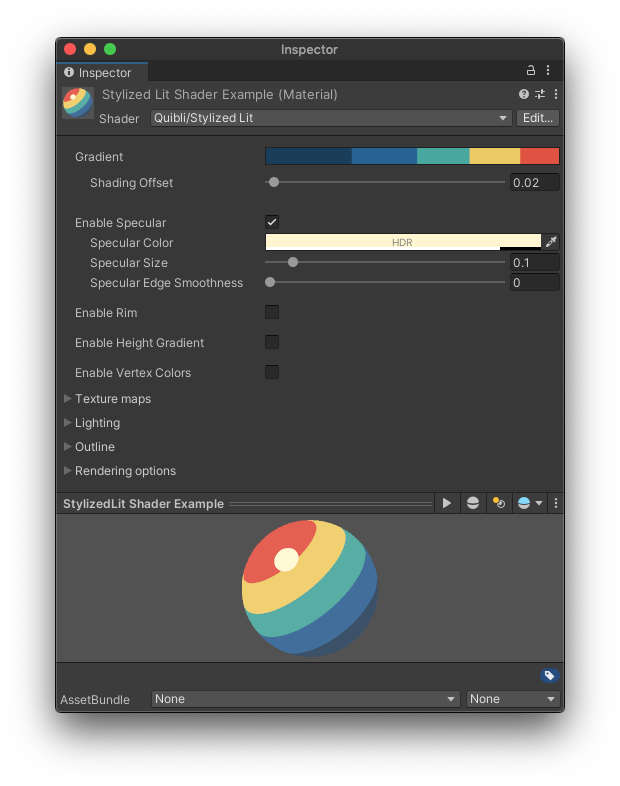
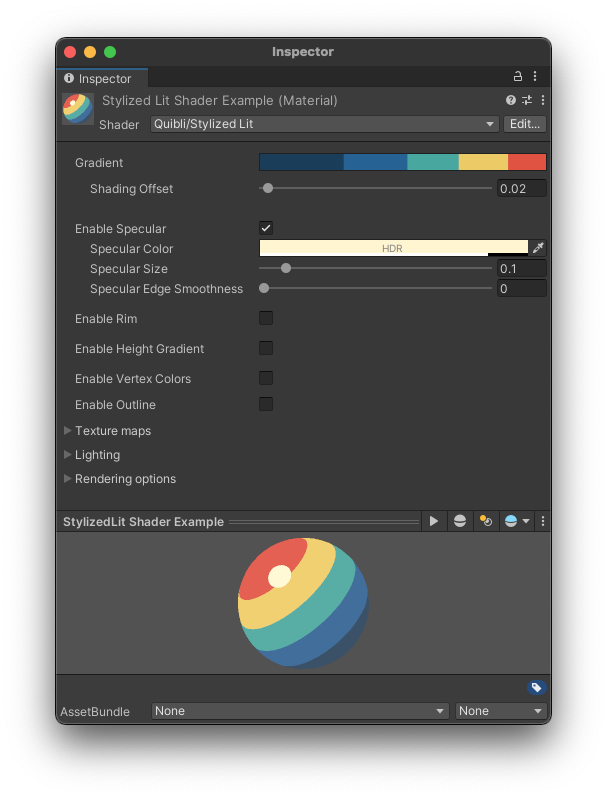
manual images updated

Changed region(s): [[0.089, 0.0305, 0.9193, 0.916]]

diff --git a/_docs/stylized-lit-shader.md b/_docs/stylized-lit-shader.md
@@ -106,7 +106,7 @@ Please, note that _Rim_ is not a substitution for the proper outline effect, lik
 {:.image-caption}
 *Stylized Lit Shader — Height Gradient parameters*
 
-**TIP.** In a _City_ Demo scene the _Height Gradient_ is sometimes used as a subtle pseudo ambient occlusion, particularly on the electric poles and houses, which otherwise would have looked kind of detached from the pavement.
+**TIP.** In a _City_ Demo scene the _Height Gradient_ is sometimes used as a subtle pseudo ambient occlusion, particularly on the bottom of electric poles and houses, which otherwise would have looked kind of detached from the pavement.
 {: .notice--info}
 
 **TIP.** If your scene has some kind of a bloom effect, raising the intensity of the HDR of _Specular_, _Rim_, _Height Gradient_ parameters create a glowing effect. It can contribute to the anime look greatly.
@@ -119,6 +119,7 @@ Once you enable _Height Gradient_, the following parameters will appear.
 - **Size** How spread the _Height Gradient_ is.
 - **Gradient Angle** Rotates the _Height Gradient_ around the **Center X** and **Center Y** values in world-space.
 - **Enable Vertex Colors** If enabled, the final shading of the object is multiplied by the mesh’s vertex color values. It is a debug parameter, usually this is not used for changing the look.
+- **Enable Outline** If enabled, the outline and the [group of parameters](#outline-parameters) for tweaking it will appear.
 
 ### Texture Mapping Parameters
 **Texture Maps**

diff --git a/_docs/cloud3d-shader.md b/_docs/cloud3d-shader.md
@@ -36,3 +36,4 @@ The same Gradient Editor is available for the following shaders: [Stylized Lit](
 - **Billboard Scale** Sets the scale of the branch textures aka particles (particles are described [here](../foliage-generator#parameters-of-the-foliage-generator). Effectively, using this parameter, you can scale the whole mesh. _Billboard Scale_ works only when billboards are active: when in the _Billboard Rotation_ parameter _Each Face_ or _Whole Object_ are selected.
 - **Offset Along Normal** Slides the particles along the normals. Visually it 'inflates' or 'deflates' the mesh.
 - **Shadow Strength** Controls the intensity of the self-shadowing effect. In the Shader Graph, there is no easy possibility to reduce the self-shadowing phenomenon. This parameter is our attempt at overcoming this limitation.
+- **Billboard Face Camera Position** If enabled, the billboard will face the camera position. Otherwise, the billboard faces the camera plane. This makes billboards look nicer when camera rotates but is more expensive to render.
